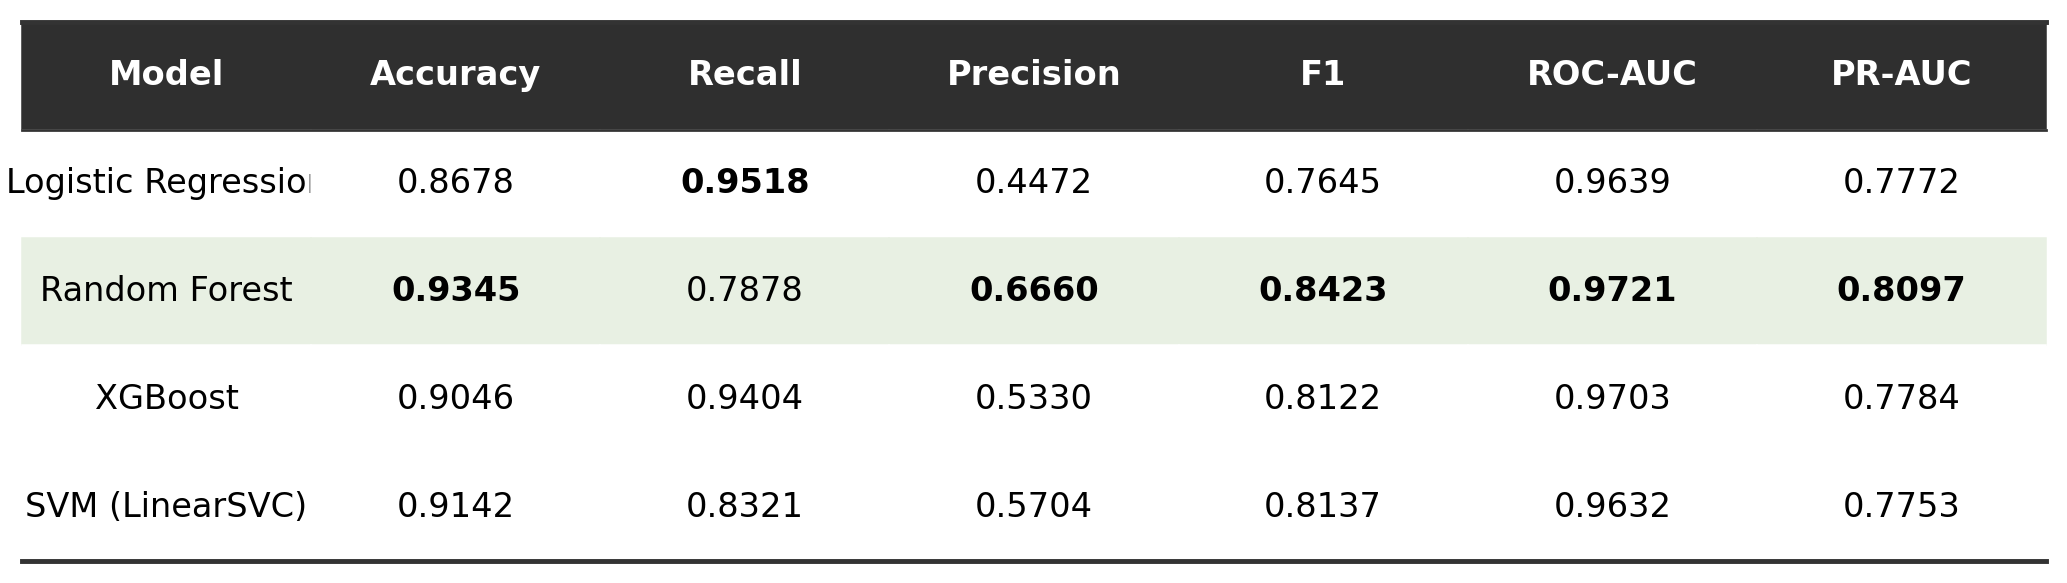
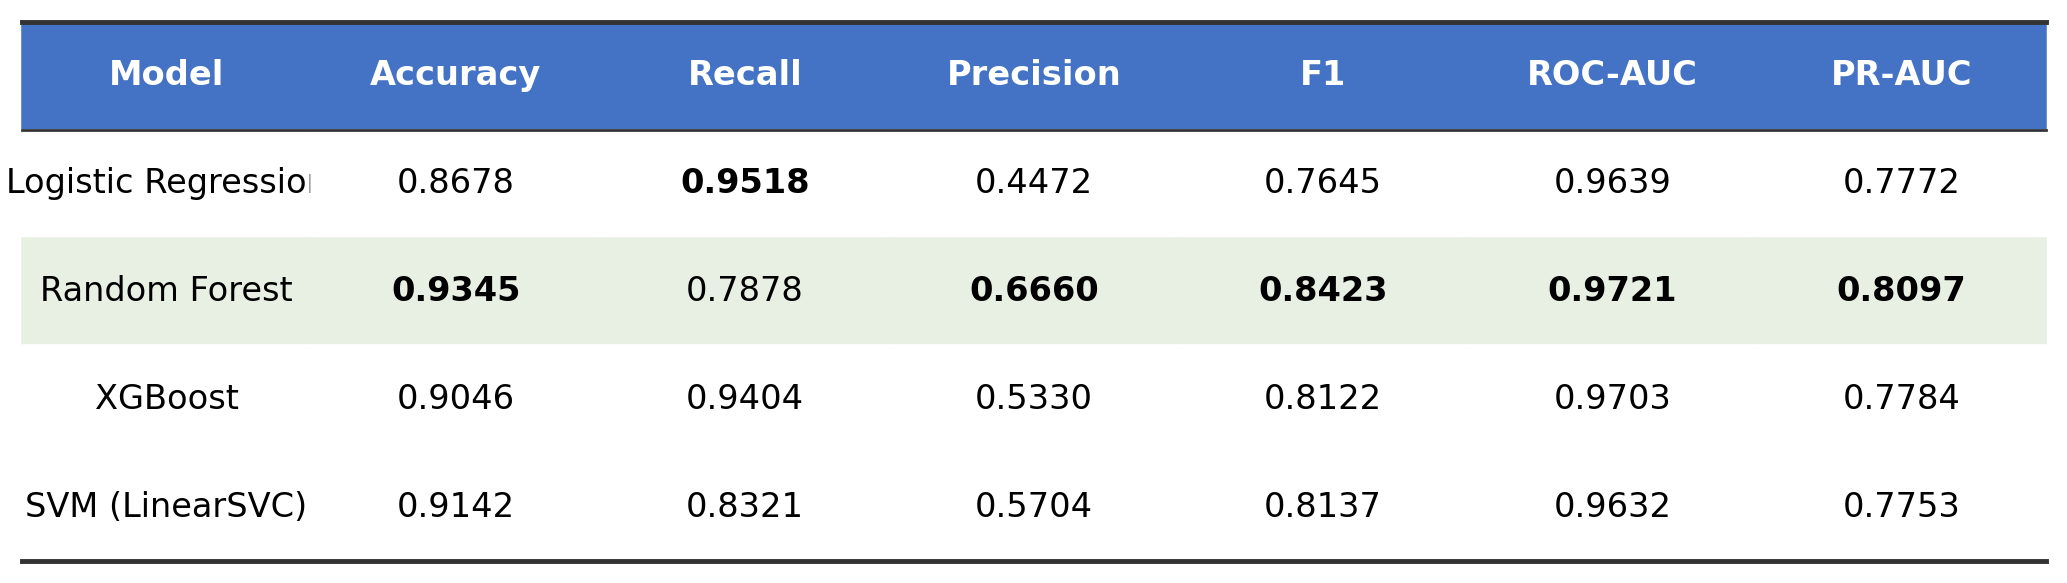
Lighter table headers, vertical centring, keep tables off their own page
Header background was near-black (#2F2F2F), changed to a lighter,
still-readable blue (#4472C4) across all three tables and their
two-column PNG renders. Added vertical centring to every table cell
(polish_table helper), and stopped a table row splitting across a page
break (w:cantSplit).

Table 1's intro paragraph now keeps with the caption and table that
follow it, so the three don't get separated by a page break leaving a
near-empty page above an isolated table.

Numeral consistency: three remaining spelled-out numbers (Thirteen,
Four, One, Two, Three, Eight) fixed to digits, matching numerals used
everywhere else in the report.

Changed region(s): [[0.0, 0.0309, 0.9908, 0.247]]

diff --git a/src/generate_report.py b/src/generate_report.py
@@ -24,6 +24,7 @@ import numpy as np
 from docx import Document
 from docx.shared import Inches, Pt, RGBColor, Mm
 from docx.enum.text import WD_ALIGN_PARAGRAPH
+from docx.enum.table import WD_ALIGN_VERTICAL
 from docx.enum.style import WD_STYLE_TYPE
 from docx.enum.section import WD_SECTION_START
 from docx.oxml.ns import qn
@@ -346,7 +347,7 @@ def add_bristol_table(doc, rows):
     for j, h in enumerate(headers):
         cell = table.cell(0, j)
         cell.text = h
-        shade_cell(cell, '2F2F2F')
+        shade_cell(cell, '4472C4')
         for para in cell.paragraphs:
             para.alignment = WD_ALIGN_PARAGRAPH.CENTER
             for run in para.runs:
@@ -373,6 +374,7 @@ def add_bristol_table(doc, rows):
                 for run in para.runs:
                     run.font.size = Pt(10)
                     run.font.name = 'Times New Roman'
+    polish_table(table)
     return table
 
 
@@ -389,7 +391,7 @@ def add_cities_table(doc, rows):
     for j, h in enumerate(headers):
         cell = table.cell(0, j)
         cell.text = h
-        shade_cell(cell, '2F2F2F')
+        shade_cell(cell, '4472C4')
         for para in cell.paragraphs:
             para.alignment = WD_ALIGN_PARAGRAPH.CENTER
             for run in para.runs:
@@ -411,6 +413,7 @@ def add_cities_table(doc, rows):
                 for run in para.runs:
                     run.font.size = Pt(10)
                     run.font.name = 'Times New Roman'
+    polish_table(table)
     return table
 
 
@@ -420,6 +423,17 @@ def shade_cell(cell, hex_color):
     shd.set(qn('w:color'), 'auto')
     shd.set(qn('w:fill'), hex_color)
     cell._tc.get_or_add_tcPr().append(shd)
+
+
+def polish_table(table):
+    """Vertically centre every cell and stop a row splitting across a
+    page break, applied once after a table's cells are filled in."""
+    for row in table.rows:
+        trPr = row._tr.get_or_add_trPr()
+        cant_split = OxmlElement('w:cantSplit')
+        trPr.append(cant_split)
+        for cell in row.cells:
+            cell.vertical_alignment = WD_ALIGN_VERTICAL.CENTER
 
 
 # Displayed columns and order: the metrics a marker expects to see first
@@ -482,7 +496,7 @@ def add_comparison_table(doc, rows, winners):
     for j, h in enumerate(headers):
         cell = table.cell(0, j)
         cell.text = COMPARISON_HEADER_DISPLAY.get(h, h)
-        shade_cell(cell, '2F2F2F')
+        shade_cell(cell, '4472C4')
         for para in cell.paragraphs:
             para.alignment = WD_ALIGN_PARAGRAPH.CENTER
             for run in para.runs:
@@ -515,6 +529,7 @@ def add_comparison_table(doc, rows, winners):
                         run.bold = True
 
     set_column_widths(table, headers, COMPARISON_COL_WIDTHS_IN)
+    polish_table(table)
     return table
 
 
@@ -772,7 +787,7 @@ def build_report(mode="full", two_column=False, name_tag=""):
         "properties but why (Section 5.3)."
     )
     doc.add_paragraph(
-        "Four algorithms compete (Section 4), judged by nested cross-validation and a "
+        "4 algorithms compete (Section 4), judged by nested cross-validation and a "
         "time-held-out test set: trained on the past, tested on the future, as it would "
         "actually be used."
     )
@@ -854,7 +869,7 @@ def build_report(mode="full", two_column=False, name_tag=""):
     if safe:
         p_eda1 = doc.add_paragraph()
         p_eda1.add_run(
-            "Each certificate has 41 fields, 20 numeric and 21 categorical. Thirteen carry missing "
+            "Each certificate has 41 fields, 20 numeric and 21 categorical. 13 carry missing "
             "values (Fig. 2). The floor-level energy rating is missing in 89.3% of records and "
             "is dropped as too sparse to impute; a cluster missing in 14.7% is filled with the "
             "median or most common value. About 0.1% carry impossible negative values and are "
@@ -893,7 +908,7 @@ def build_report(mode="full", two_column=False, name_tag=""):
         )
     else:
         doc.add_paragraph(
-            "Thirteen of the 41 raw fields carry missing values (Fig. 2), concentrated in "
+            "13 of the 41 raw fields carry missing values (Fig. 2), concentrated in "
             "component-level ratings rather than spread evenly across the dataset. FLOOR_ENERGY_EFF "
             "is missing in 89.3% of records, too sparse to impute reliably, and is dropped "
             "from the feature set entirely rather than filled with a misleading default. "
@@ -1085,12 +1100,18 @@ def build_report(mode="full", two_column=False, name_tag=""):
     # 5. Results
     doc.add_heading("5. Results", level=1)
     doc.add_heading("5.1 Model Comparison", level=2)
-    doc.add_paragraph(
+    p_t1intro = doc.add_paragraph(
         "Table 1 gives test-set performance, the best value in each column bolded, whichever "
         "model that turns out to be. Accuracy is shown for reference, but it is not the metric "
         "that decides anything here, a model can score well on it just by favouring the "
         "majority class (Section 4)."
     )
+    # Keeps this paragraph on the same page as the caption and table that follow
+    # it, rather than risk it being the last line on a page with the table
+    # itself pushed alone onto the next, which is what left a near-empty page
+    # here before.
+    p_t1intro.paragraph_format.keep_with_next = True
+    p_t1intro.paragraph_format.keep_together = True
 
     # keep this short enough to fit one line at column width. A table caption sits
     # above its table, and the table is a floating image in two-column mode, so a
@@ -1478,7 +1499,7 @@ def build_report(mode="full", two_column=False, name_tag=""):
         cap_bristol.paragraph_format.keep_with_next = True
         cap_bristol.paragraph_format.keep_together = True
         cap_run = cap_bristol.add_run(
-            "Table 2. Eight Bristol test-set properties: model output vs. actual label."
+            "Table 2. 8 Bristol test-set properties: model output vs. actual label."
         )
         cap_run.italic = True
         cap_run.font.size = Pt(10)
@@ -1527,7 +1548,7 @@ def build_report(mode="full", two_column=False, name_tag=""):
     if city_rows:
         p_cities = doc.add_paragraph()
         p_cities.add_run(
-            "One city is not proof this generalises, so I ran the same held-out check on "
+            "1 city is not proof this generalises, so I ran the same held-out check on "
             "Manchester and Leeds, both denser and more terraced than Bristol (Table 3). "
             "Recall holds up on all three, the model still finds most of the real high-potential "
             "homes even where the local housing stock looks nothing like Bristol's. Precision "
@@ -1700,7 +1721,7 @@ def build_report(mode="full", two_column=False, name_tag=""):
         "exploration in Section 3.1, moved to Kaggle's cloud notebooks since a nested search "
         "across four models at that size needs more memory and sustained CPU time than my own "
         "machine gives, and the full 7.25 million eligible records never fit as a single table "
-        "on it at all. Two findings came from that move. The chosen hyperparameters barely "
+        "on it at all. 2 findings came from that move. The chosen hyperparameters barely "
         "changed between the two sample sizes, reassuring but only one data point. And the "
         "Kaggle environment used a different scikit-learn version: the saved preprocessing "
         "pipeline would not load locally until the versions matched exactly, a real "
@@ -1776,7 +1797,7 @@ def build_report(mode="full", two_column=False, name_tag=""):
         )
     else:
         doc.add_paragraph(
-            "Three extensions follow directly from the limitations above. First, a full "
+            "3 extensions follow directly from the limitations above. First, a full "
             "nested-CV search repeated on every fold of Section 7's walk-forward check, not "
             "just a refit with the main model's existing settings, which would say how often "
             "the model actually needs retuning rather than only retraining. Second, "

diff --git a/src/make_table_images.py b/src/make_table_images.py
@@ -17,7 +17,7 @@ import matplotlib.pyplot as plt
 DATA_DIR = "data/processed"
 FIGURES_DIR = "report/figures"
 
-HEADER_BG = "#2F2F2F"
+HEADER_BG = "#4472C4"
 WINNER_BG = "#E8F0E3"
 ERROR_BG = "#F5DCDC"
 RULE_COLOR = "#333333"
